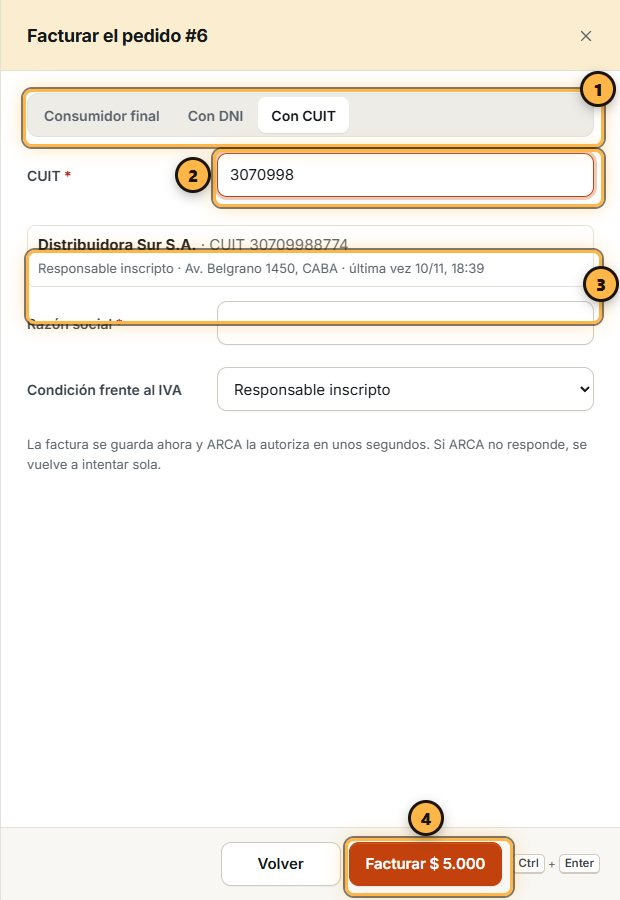
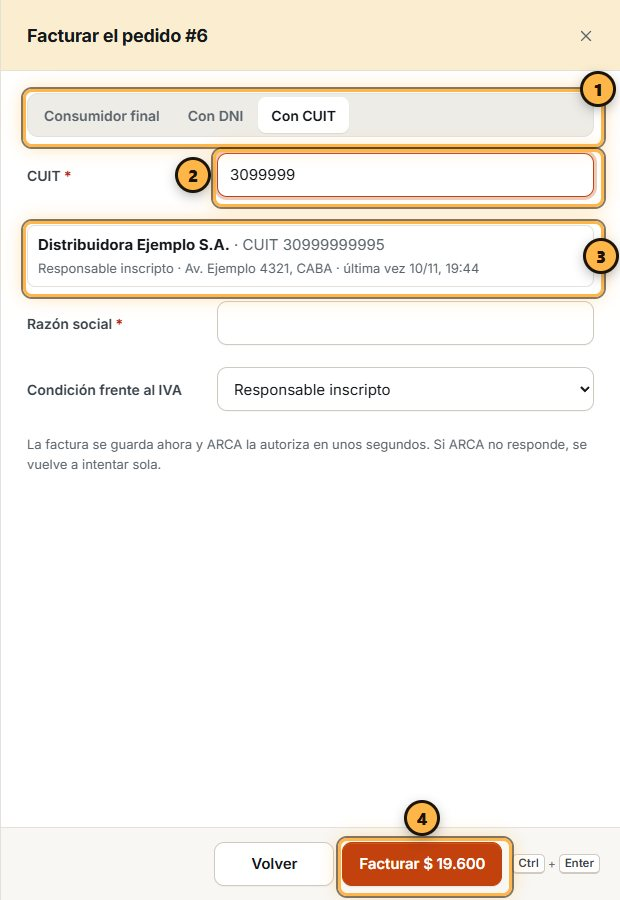
sitio: manual de Fornu, datos fiscales de prueba que no son de nadie
Las capturas de facturación mostraban un CUIT armado sobre un DNI asignado,
un CUIT del rango de empresas existentes y domicilios reales al lado. Se
rehicieron con la cuenta en 20-99999998-1, Av. Ejemplo 1234, y el cliente
Distribuidora Ejemplo S.A., 30-99999999-5, Av. Ejemplo 4321: Ajustes ›
Facturación, la lista de facturas, la factura, la nota de crédito, la
factura a mano, el comprobante al cobrar una mesa (en Facturación y en
Salón) y el detalle de una venta con su factura. Los textos alternativos
dicen lo que muestran las capturas nuevas.

diff --git a/en/projects/fornu/manual/facturacion.md b/en/projects/fornu/manual/facturacion.md
@@ -130,7 +130,7 @@ If the last invoice was rejected or voided, it reads **Facturar de nuevo** (invo
 {: .steps}
 
 <figure class="shot">
-  <img src="{{ '/assets/img/fornu/manual/facturacion-a-mano.jpg' | relative_url }}" alt="The Facturar el pedido #6 panel with Con CUIT chosen, the first seven digits of a CUIT and below it the customer already invoiced, Distribuidora Sur S.A., registered for VAT, with its address and the last time" loading="lazy" width="620" height="900">
+  <img src="{{ '/assets/img/fornu/manual/facturacion-a-mano.jpg' | relative_url }}" alt="The Facturar el pedido #6 panel with Con CUIT chosen, the first seven digits of a CUIT and below it the customer already invoiced, Distribuidora Ejemplo S.A., registered for VAT, with its address and the last time" loading="lazy" width="620" height="900">
   <ol class="marks">
     <li><b>Consumidor final</b>, <b>Con DNI</b> or <b>Con CUIT</b>.</li>
     <li>The number. From the seventh digit it searches.</li>
@@ -169,7 +169,7 @@ In the Salón, the invoice is requested at the moment of paying. Taking the paym
 {: .steps}
 
 <figure class="shot">
-  <img src="{{ '/assets/img/fornu/manual/facturacion-mesa.jpg' | relative_url }}" alt="The Comprobante block when charging a table: Facturar esta cuenta switched on, status Responsable inscripto, a CUIT typed and, below it, the already-invoiced customer Distribuidora Sur S.A." loading="lazy" width="700" height="440">
+  <img src="{{ '/assets/img/fornu/manual/facturacion-mesa.jpg' | relative_url }}" alt="The Comprobante block when charging a table: Facturar esta cuenta switched on, status Responsable inscripto, a CUIT typed and, below it, the already-invoiced customer Distribuidora Ejemplo S.A." loading="lazy" width="700" height="440">
   <ol class="marks">
     <li><b>Facturar esta cuenta</b>.</li>
     <li>The customer's <b>Condición frente al IVA</b>.</li>
@@ -229,7 +229,7 @@ This is the list of invoices and credit notes issued, with their CAE. Use it to 
 - If the period holds test invoices, it says so: «Las facturas de este período son de prueba: no tienen validez fiscal.»
 
 <figure class="shot">
-  <img src="{{ '/assets/img/fornu/manual/facturacion-facturas.jpg' | relative_url }}" alt="Balances, Facturas for the month: the period and the search box, the figures Comprobantes 45, Facturado 846,000 pesos, IVA 0 and Esperando o rechazadas 1, and the list with a rejected invoice, a credit note in negative, an invoice to a company and a voided one" loading="lazy" width="1440" height="720">
+  <img src="{{ '/assets/img/fornu/manual/facturacion-facturas.jpg' | relative_url }}" alt="Balances, Facturas for the month: the period and the search box, the figures Comprobantes 46, Facturado 850,000 pesos, IVA 0 and Esperando o rechazadas 1, and the list with an invoice to a company, a rejected one, a credit note in negative, another invoice to the same company and a voided one" loading="lazy" width="1440" height="720">
   <ol class="marks">
     <li>The period and the search box.</li>
     <li>The figures. <b>Esperando o rechazadas</b> (waiting or rejected) leaves only the ones with a problem.</li>
@@ -262,7 +262,7 @@ Tap a row (or the **Factura** line of an order's detail). The voucher opens as i
 | **Listo** (done) | Closes it. |
 
 <figure class="shot">
-  <img src="{{ '/assets/img/fornu/manual/facturacion-factura.jpg' | relative_url }}" alt="An open Factura C: the business's details, the letter C with its code, the number and date, the customer Distribuidora Sur S.A. registered for VAT with its CUIT and address, a pizza, the total, the QR and the CAE with its due date, and the Anular, Corregir, Imprimir and Listo buttons" loading="lazy" width="880" height="760">
+  <img src="{{ '/assets/img/fornu/manual/facturacion-factura.jpg' | relative_url }}" alt="An open Factura C: the business's details, the letter C with its code, the number and date, the customer Distribuidora Ejemplo S.A. registered for VAT with its CUIT and address, a pizza, the total, the QR and the CAE with its due date, and the Anular, Corregir, Imprimir and Listo buttons" loading="lazy" width="880" height="760">
   <ol class="marks">
     <li>The <b>CAE</b> and its due date.</li>
     <li>ARCA's QR code.</li>
@@ -281,7 +281,7 @@ Tap a row (or the **Factura** line of an order's detail). The voucher opens as i
 {: .steps}
 
 <figure class="shot">
-  <img src="{{ '/assets/img/fornu/manual/facturacion-nota-de-credito.jpg' | relative_url }}" alt="An open Nota de crédito C: it says Anula la Factura C 00003-00000043, with its two products, the total, the QR and its own CAE" loading="lazy" width="880" height="640">
+  <img src="{{ '/assets/img/fornu/manual/facturacion-nota-de-credito.jpg' | relative_url }}" alt="An open Nota de crédito C: it says Anula la Factura C 00003-00000043, with its product, the total, the QR and its own CAE" loading="lazy" width="880" height="640">
   <ol class="marks">
     <li>Which invoice it voids («Anula la Factura…»).</li>
     <li>Its own CAE.</li>

diff --git a/es/projects/fornu/manual/facturacion.md b/es/projects/fornu/manual/facturacion.md
@@ -130,7 +130,7 @@ Si la última factura fue rechazada o anulada, dice **Facturar de nuevo**. No ap
 {: .steps}
 
 <figure class="shot">
-  <img src="{{ '/assets/img/fornu/manual/facturacion-a-mano.jpg' | relative_url }}" alt="El panel Facturar el pedido #6 con Con CUIT elegido, los primeros siete números de un CUIT y debajo el cliente ya facturado Distribuidora Sur S.A., responsable inscripto, con su domicilio y la última vez" loading="lazy" width="620" height="900">
+  <img src="{{ '/assets/img/fornu/manual/facturacion-a-mano.jpg' | relative_url }}" alt="El panel Facturar el pedido #6 con Con CUIT elegido, los primeros siete números de un CUIT y debajo el cliente ya facturado Distribuidora Ejemplo S.A., responsable inscripto, con su domicilio y la última vez" loading="lazy" width="620" height="900">
   <ol class="marks">
     <li><b>Consumidor final</b>, <b>Con DNI</b> o <b>Con CUIT</b>.</li>
     <li>El número. Desde el séptimo dígito busca.</li>
@@ -169,7 +169,7 @@ En el Salón, la factura se pide en el mismo momento de cobrar. El cobro está e
 {: .steps}
 
 <figure class="shot">
-  <img src="{{ '/assets/img/fornu/manual/facturacion-mesa.jpg' | relative_url }}" alt="Bloque Comprobante del cobro de una mesa: Facturar esta cuenta prendido, condición Responsable inscripto, un CUIT escrito y debajo el cliente ya facturado Distribuidora Sur S.A." loading="lazy" width="700" height="440">
+  <img src="{{ '/assets/img/fornu/manual/facturacion-mesa.jpg' | relative_url }}" alt="Bloque Comprobante del cobro de una mesa: Facturar esta cuenta prendido, condición Responsable inscripto, un CUIT escrito y debajo el cliente ya facturado Distribuidora Ejemplo S.A." loading="lazy" width="700" height="440">
   <ol class="marks">
     <li><b>Facturar esta cuenta</b>.</li>
     <li><b>Condición frente al IVA</b> del cliente.</li>
@@ -229,7 +229,7 @@ Es el listado de las facturas y notas de crédito emitidas, con su CAE. Sirve pa
 - Si en el período hay facturas de prueba, lo avisa: «Las facturas de este período son de prueba: no tienen validez fiscal.»
 
 <figure class="shot">
-  <img src="{{ '/assets/img/fornu/manual/facturacion-facturas.jpg' | relative_url }}" alt="Balances, Facturas del mes: el período y el buscador, las cifras Comprobantes 45, Facturado 846.000 pesos, IVA 0 y Esperando o rechazadas 1, y la lista con una factura rechazada, una nota de crédito en negativo, una factura a una empresa y una anulada" loading="lazy" width="1440" height="720">
+  <img src="{{ '/assets/img/fornu/manual/facturacion-facturas.jpg' | relative_url }}" alt="Balances, Facturas del mes: el período y el buscador, las cifras Comprobantes 46, Facturado 850.000 pesos, IVA 0 y Esperando o rechazadas 1, y la lista con una factura a una empresa, una rechazada, una nota de crédito en negativo, otra factura a la misma empresa y una anulada" loading="lazy" width="1440" height="720">
   <ol class="marks">
     <li>El período y el buscador.</li>
     <li>Las cifras. <b>Esperando o rechazadas</b> deja solo las que tienen un problema.</li>
@@ -262,7 +262,7 @@ Tocá una fila (o la línea **Factura** del detalle de un pedido). Se abre el co
 | **Listo** | Cierra. |
 
 <figure class="shot">
-  <img src="{{ '/assets/img/fornu/manual/facturacion-factura.jpg' | relative_url }}" alt="Una Factura C abierta: los datos del negocio, la letra C con su código, el número y la fecha, el cliente Distribuidora Sur S.A. responsable inscripto con su CUIT y domicilio, una pizza, el total, el QR y el CAE con su vencimiento, y los botones Anular, Corregir, Imprimir y Listo" loading="lazy" width="880" height="760">
+  <img src="{{ '/assets/img/fornu/manual/facturacion-factura.jpg' | relative_url }}" alt="Una Factura C abierta: los datos del negocio, la letra C con su código, el número y la fecha, el cliente Distribuidora Ejemplo S.A. responsable inscripto con su CUIT y domicilio, una pizza, el total, el QR y el CAE con su vencimiento, y los botones Anular, Corregir, Imprimir y Listo" loading="lazy" width="880" height="760">
   <ol class="marks">
     <li>El <b>CAE</b> y su vencimiento.</li>
     <li>El QR de ARCA.</li>
@@ -281,7 +281,7 @@ Tocá una fila (o la línea **Factura** del detalle de un pedido). Se abre el co
 {: .steps}
 
 <figure class="shot">
-  <img src="{{ '/assets/img/fornu/manual/facturacion-nota-de-credito.jpg' | relative_url }}" alt="Una Nota de crédito C abierta: dice Anula la Factura C 00003-00000043, con sus dos productos, el total, el QR y su propio CAE" loading="lazy" width="880" height="640">
+  <img src="{{ '/assets/img/fornu/manual/facturacion-nota-de-credito.jpg' | relative_url }}" alt="Una Nota de crédito C abierta: dice Anula la Factura C 00003-00000043, con su producto, el total, el QR y su propio CAE" loading="lazy" width="880" height="640">
   <ol class="marks">
     <li>Qué factura anula.</li>
     <li>Su propio CAE.</li>

diff --git a/en/projects/fornu/manual/salon.md b/en/projects/fornu/manual/salon.md
@@ -721,7 +721,7 @@ With the Facturación (invoicing) module, the payment that closes the table has 
 - **Razón social** (company name) or **Nombre**, **Domicilio** (address), **Teléfono** and **Email**, to send them the receipt.
 
 <figure class="shot">
-  <img src="{{ '/assets/img/fornu/manual/salon-facturar.jpg' | relative_url }}" alt="The Comprobante section of the payment dialog: Facturar esta cuenta ticked, Condición frente al IVA set to Responsable inscripto and Documento locked to CUIT. Under the typed CUIT, a company already invoiced with that number, with its VAT status, its address and the last time. Further down Razón social, Domicilio, Teléfono and Email, and the notice La facturación está apagada en esta cuenta: prendela en Facturación para emitir el comprobante." loading="lazy" width="485" height="736">
+  <img src="{{ '/assets/img/fornu/manual/salon-facturar.jpg' | relative_url }}" alt="The Comprobante section of the payment dialog: Facturar esta cuenta ticked, Condición frente al IVA set to Responsable inscripto and Documento locked to CUIT. Under the typed CUIT, a company already invoiced with that number, with its VAT status, its address and the last time. Further down Razón social, Domicilio, Teléfono and Email, and the notice La facturación está apagada en esta cuenta: prendela en Facturación para emitir el comprobante." loading="lazy" width="485" height="750">
   <ol class="marks">
     <li><b>Facturar esta cuenta</b>.</li>
     <li><b>Condición frente al IVA</b> and <b>Documento</b>: a Responsable inscripto requires a CUIT.</li>

diff --git a/es/projects/fornu/manual/salon.md b/es/projects/fornu/manual/salon.md
@@ -721,7 +721,7 @@ Con el módulo Facturación, el pago que cierra la mesa tiene la sección **Comp
 - **Razón social** o **Nombre**, **Domicilio**, **Teléfono** y **Email**, para mandarle el comprobante.
 
 <figure class="shot">
-  <img src="{{ '/assets/img/fornu/manual/salon-facturar.jpg' | relative_url }}" alt="La sección Comprobante del cobro: Facturar esta cuenta tildado, Condición frente al IVA en Responsable inscripto y Documento fijo en CUIT. Debajo del CUIT escrito, una empresa a la que ya se le facturó con ese número, con su condición, su domicilio y la última vez. Más abajo Razón social, Domicilio, Teléfono y Email, y el aviso La facturación está apagada en esta cuenta: prendela en Facturación para emitir el comprobante." loading="lazy" width="485" height="736">
+  <img src="{{ '/assets/img/fornu/manual/salon-facturar.jpg' | relative_url }}" alt="La sección Comprobante del cobro: Facturar esta cuenta tildado, Condición frente al IVA en Responsable inscripto y Documento fijo en CUIT. Debajo del CUIT escrito, una empresa a la que ya se le facturó con ese número, con su condición, su domicilio y la última vez. Más abajo Razón social, Domicilio, Teléfono y Email, y el aviso La facturación está apagada en esta cuenta: prendela en Facturación para emitir el comprobante." loading="lazy" width="485" height="750">
   <ol class="marks">
     <li><b>Facturar esta cuenta</b>.</li>
     <li><b>Condición frente al IVA</b> y <b>Documento</b>: un Responsable inscripto pide CUIT.</li>

diff --git a/es/projects/fornu/manual/caja.md b/es/projects/fornu/manual/caja.md
@@ -156,7 +156,7 @@ Las canceladas aparecen más claras. La lista dibuja 200 ventas por vez: para ve
 Las flechas no hacen nada mientras estás escribiendo en un campo o con un diálogo abierto.
 
 <figure class="shot">
-  <img src="{{ '/assets/img/fornu/manual/caja-ventas-factura.jpg' | relative_url }}" alt="El detalle de un pedido de Pizzería de Rappi con su producto, el cliente, la entrega y la línea Factura con Factura C 00003-00000044 Autorizada" loading="lazy" width="470" height="498">
+  <img src="{{ '/assets/img/fornu/manual/caja-ventas-factura.jpg' | relative_url }}" alt="El detalle de un pedido propio de Pizzería con su producto, el cliente, la entrega y la línea Factura con Factura C 00003-00000044 Autorizada" loading="lazy" width="470" height="484">
   <ol class="marks">
     <li><b>Factura</b>: el comprobante de la venta y su estado. Un toque lo abre.</li>
   </ol>

diff --git a/en/projects/fornu/manual/caja.md b/en/projects/fornu/manual/caja.md
@@ -156,7 +156,7 @@ Cancelled rows are dimmed. The list draws 200 sales at a time: to see the rest, 
 The arrow keys do nothing while you are typing in a field or have a dialog open.
 
 <figure class="shot">
-  <img src="{{ '/assets/img/fornu/manual/caja-ventas-factura.jpg' | relative_url }}" alt="The detail of a Pizzería order from Rappi with its product, the customer, the delivery and the Factura line with Factura C 00003-00000044 Autorizada" loading="lazy" width="470" height="498">
+  <img src="{{ '/assets/img/fornu/manual/caja-ventas-factura.jpg' | relative_url }}" alt="The detail of an own Pizzería order with its product, the customer, the delivery and the Factura line with Factura C 00003-00000044 Autorizada" loading="lazy" width="470" height="484">
   <ol class="marks">
     <li><b>Factura</b> (invoice): the sale's voucher and its state. A tap opens it.</li>
   </ol>
